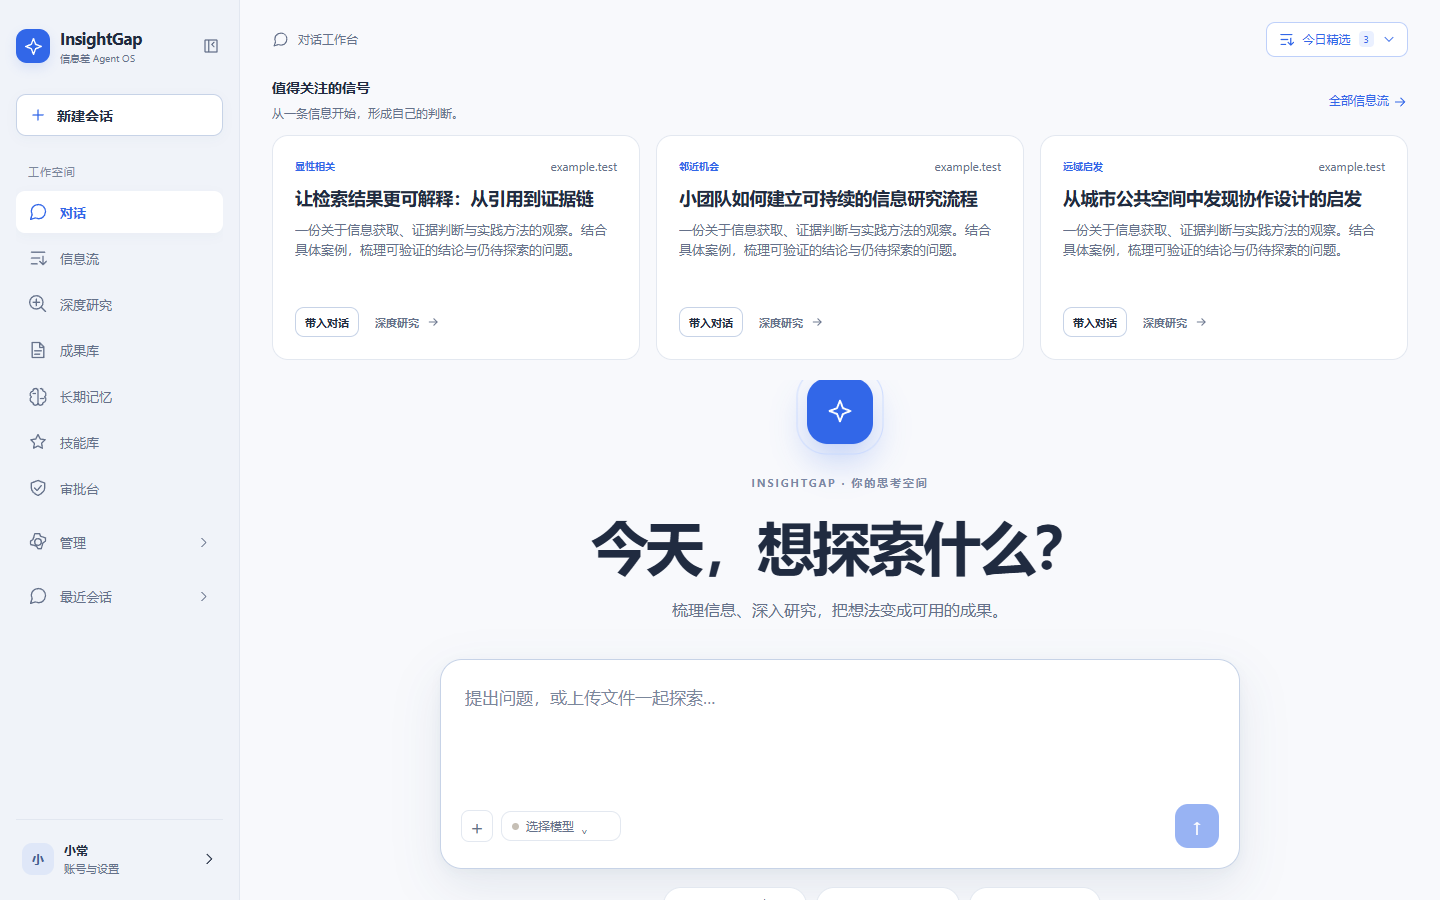
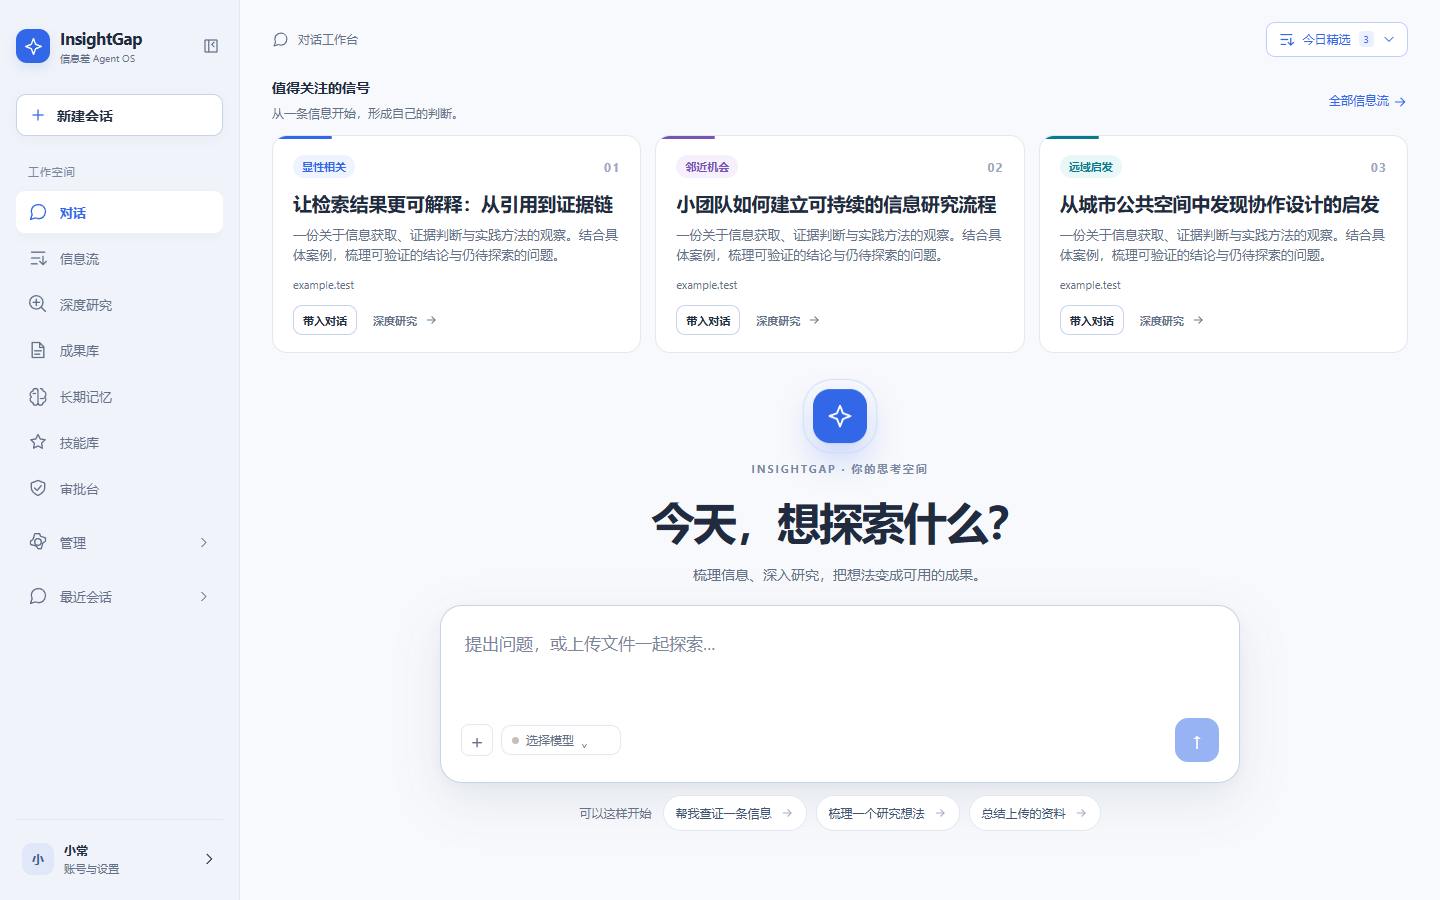
Refine home Feed cards without enlarging chat layout

diff --git a/frontend/src/styles/workbench.css b/frontend/src/styles/workbench.css
@@ -2571,6 +2571,7 @@ details[open] > :not(summary) {
 }
 
 /* Feed is a reading surface: a lead signal, then spacious supporting stories. */
+.feed-item-story, .feed-item-summary, .feed-item-relevance, .feed-item-gap { min-width: 0; overflow-wrap: anywhere; }
 @media (min-width: 821px) {
 .feed-page .page-header h1 { font-size: clamp(30px, 3.2vw, 42px); }
 .feed-page .metric-row { gap: 0; background: #fff; border: 1px solid var(--border); border-radius: 16px; overflow: hidden; }
@@ -2650,12 +2651,42 @@ details[open] > :not(summary) {
 .home-feed-peek-label { display: flex; align-items: center; gap: 6px; flex-shrink: 0; color: var(--accent); font-size: 12px; font-weight: 700; }
 .home-feed-peek strong { flex: 1; min-width: 0; font-size: 14px; font-weight: 600; overflow: hidden; text-overflow: ellipsis; white-space: nowrap; }
 .home-feed-peek-action { display: flex; align-items: center; gap: 6px; flex-shrink: 0; font-size: 12px; color: var(--accent); }
-.floating-feed-grid { gap: 16px; }
-.floating-feed-card { min-height: 225px; padding: 22px; border-radius: 16px; display: flex; flex-direction: column; transition: transform 200ms var(--ease), border-color 200ms, box-shadow 200ms; }
-.floating-feed-card:hover { transform: translateY(-3px); border-color: #b9cdf5; box-shadow: 0 12px 28px #24447a14; }
-.floating-feed-card h3 { font-size: 18px; line-height: 1.4; }
-.floating-feed-card > p { font-size: 13px; line-height: 1.55; }
-.floating-feed-card-actions { margin-top: auto; padding-top: 16px; }
+.floating-feed-grid { gap: 14px; }
+.floating-feed-card {
+  --signal-color: #3267e8;
+  --signal-tint: #edf3ff;
+  position: relative;
+  min-height: 218px;
+  padding: 19px 20px 17px;
+  border-radius: 15px;
+  display: flex;
+  flex-direction: column;
+  overflow: hidden;
+  transition: transform 200ms var(--ease), border-color 200ms, box-shadow 200ms, background-color 200ms;
+}
+.floating-feed-card.adjacent { --signal-color: #7954b7; --signal-tint: #f5f0fb; }
+.floating-feed-card.far { --signal-color: #087c8d; --signal-tint: #eaf7f8; }
+.floating-feed-card::before { content: ''; position: absolute; top: 0; left: 0; width: 100%; height: 3px; background: var(--signal-color); transform: scaleX(.16); transform-origin: left; transition: transform 220ms var(--ease); }
+.floating-feed-card:hover { transform: translateY(-3px); border-color: #b5c6e7; box-shadow: 0 12px 28px #24447a18; }
+.floating-feed-card:hover::before, .floating-feed-card.is-selected::before { transform: scaleX(1); }
+.floating-feed-card.is-selected { border-color: var(--signal-color); background: color-mix(in srgb, var(--signal-tint) 36%, white); box-shadow: 0 0 0 2px color-mix(in srgb, var(--signal-color) 15%, transparent); }
+.floating-feed-card-top { margin-bottom: 12px; }
+.floating-feed-card-top .eyebrow { border-radius: 999px; padding: 4px 9px; background: var(--signal-tint); color: var(--signal-color); font-size: 11px; font-weight: 650; }
+.floating-feed-card-index { color: #9aa8bf; font-size: 12px; font-weight: 650; letter-spacing: .1em; }
+.floating-feed-card h3 { font-size: 19px; line-height: 1.38; font-weight: 650; letter-spacing: -.01em; margin-bottom: 8px; display: -webkit-box; -webkit-line-clamp: 2; -webkit-box-orient: vertical; overflow: hidden; }
+.floating-feed-card > p { font-size: 13px; line-height: 1.55; -webkit-line-clamp: 2; margin-bottom: 0; }
+.floating-feed-card-source { color: var(--muted); font-size: 11px; margin-top: 12px; overflow: hidden; white-space: nowrap; text-overflow: ellipsis; }
+.floating-feed-card-actions { margin-top: auto; padding-top: 13px; }
+.home-feed-disclosure.is-open .floating-feed-card { animation: home-card-enter 230ms var(--ease) both; }
+.home-feed-disclosure.is-open .floating-feed-card:nth-child(2) { animation-delay: 35ms; }
+.home-feed-disclosure.is-open .floating-feed-card:nth-child(3) { animation-delay: 70ms; }
+@keyframes home-card-enter { from { opacity: .3; transform: translateY(10px); } to { opacity: 1; transform: translateY(0); } }
+.home-page:has(.home-feed-disclosure.is-open) .initial-composer-stage { justify-content: flex-start; padding-top: 18px; padding-bottom: 12px; }
+.home-page:has(.home-feed-disclosure.is-open) .chat-welcome-mark { width: 54px; height: 54px; border-radius: 17px; margin-bottom: 15px; }
+.home-page:has(.home-feed-disclosure.is-open) .initial-composer-stage h1 { font-size: 44px; }
+.home-page:has(.home-feed-disclosure.is-open) .chat-welcome-description { margin-bottom: 19px; font-size: 14px; }
+.home-page:has(.home-feed-disclosure.is-open) .codex-composer textarea { min-height: 78px; }
+.home-page:has(.home-feed-disclosure.is-open) .chat-prompt-starters { margin-top: 12px; }
 
 /* A stronger opening scene, with interactions that remain useful without motion. */
 .initial-composer-stage { padding-bottom: 3vh; }

diff --git a/frontend/src/pages/HomePage.tsx b/frontend/src/pages/HomePage.tsx
@@ -158,11 +158,12 @@ export function HomePage() {
         <div><section className="home-feed-content" aria-label="今日精选">
           <div className="section-title"><div><strong>值得关注的信号</strong><p className="muted small">从一条信息开始，形成自己的判断。</p></div><Link className="text-link" to="/feed">全部信息流 <Icon name="arrow" size={16} /></Link></div>
           <ActionNotice message={feedError} error />
-          {feedLoading ? <div className="feed-skeleton" aria-label="正在加载精选"><span /><span /><span /></div> : !homeFeeds.length ? <p className="muted">暂无精选信息，可以前往信息流刷新。</p> : <div className="floating-feed-grid">{homeFeeds.map(({ card: c, label }) => <article className="floating-feed-card" key={c.id}>
-            <div className="floating-feed-card-top"><span className="eyebrow">{label}</span><span className="muted small">{c.domain || '来源未标记'}</span></div>
+          {feedLoading ? <div className="feed-skeleton" aria-label="正在加载精选"><span /><span /><span /></div> : !homeFeeds.length ? <p className="muted">暂无精选信息，可以前往信息流刷新。</p> : <div className="floating-feed-grid">{homeFeeds.map(({ card: c, label, className }, index) => <article className={`floating-feed-card ${className} ${selectedFeedCardId === Number(c.id) ? 'is-selected' : ''}`} key={c.id}>
+            <div className="floating-feed-card-top"><span className="eyebrow">{label}</span><span className="floating-feed-card-index">{String(index + 1).padStart(2, '0')}</span></div>
             <Link to={`/feed/${c.id}`} className="feed-title-link"><h3>{c.display_title || c.title || '未命名卡片'}</h3></Link>
             <p>{c.one_sentence_value || c.summary || '暂无摘要。'}</p>
-            <div className="floating-feed-card-actions"><button className={`button small ${selectedFeedCardId === Number(c.id) ? '' : 'secondary'}`} onClick={() => setSelectedFeedCardId(Number(c.id))}>{selectedFeedCardId === Number(c.id) ? '已带入对话' : '带入对话'}</button><button className="button ghost small" onClick={() => void startResearch(Number(c.id))} disabled={researchingCardId !== null}>{researchingCardId === Number(c.id) ? '创建中…' : '深度研究'}<Icon name="arrow" size={14} /></button></div>
+            <div className="floating-feed-card-source">{c.domain || '来源未标记'}</div>
+            <div className="floating-feed-card-actions"><button className={`button small ${selectedFeedCardId === Number(c.id) ? '' : 'secondary'}`} aria-pressed={selectedFeedCardId === Number(c.id)} onClick={() => setSelectedFeedCardId(current => current === Number(c.id) ? null : Number(c.id))}>{selectedFeedCardId === Number(c.id) ? '取消带入' : '带入对话'}</button><button className="button ghost small" onClick={() => void startResearch(Number(c.id))} disabled={researchingCardId !== null}>{researchingCardId === Number(c.id) ? '创建中…' : '深度研究'}<Icon name="arrow" size={14} /></button></div>
           </article>)}</div>}
         </section></div>
       </div>
